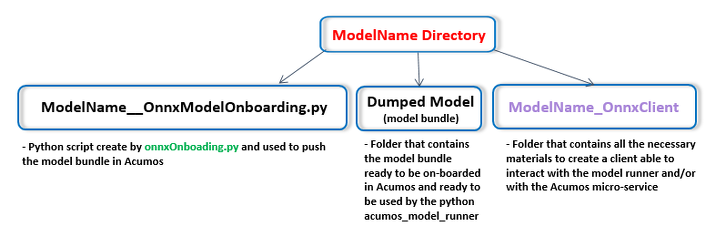
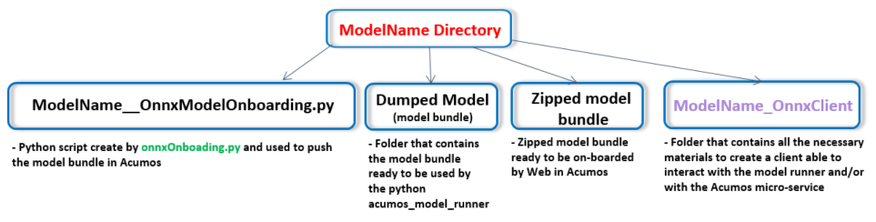
modifying documentation

diff --git a/acumos-package/onnx4acumos/_version.py b/acumos-package/onnx4acumos/_version.py
@@ -16,4 +16,4 @@
 # See the License for the specific language governing permissions and
 # limitations under the License.
 # ===============LICENSE_END=========================================================
-__version__ = '0.0.6'
+__version__ = '0.0.7'

diff --git a/docs/tutorial/index.rst b/docs/tutorial/index.rst
@@ -20,14 +20,14 @@
 onnx4acumos Tutorial
 ====================
 
-This tutorial provides a brief overview for onnx  models on-boarding on Acumos platform.
+This tutorial explains how to on-board an onnx model in an Acumos platform with microservice creation.
 It's meant to be followed linearly, and some code snippets depend on earlier imports and objects.
 Full onnx python client examples are available in the
 **``/acumos-onnx-client/acumos-package/onnx4acumos/FilledClientSkeletonsExemples/``**
 directory of the `Acumos onnx client repository
 <https://gerrit.acumos.org/r/gitweb?p=acumos-onnx-client.git;a=tree>`__.
 
-We assume that you have already installed **acumos onnx client** (onnx4acumos) python package.
+We assume that you have already installed ``onnx4acumos`` package.
 
 In this tutorial, we use `ONNX GoogLeNet <https://github.com/onnx/models/tree/master/vision/classification/inception_and_googlenet/googlenet>`__
 (source Caffe BVLC GoogLeNet ==> Caffe2 GoogLeNet ==> ONNX GoogLeNet) as example.
@@ -42,52 +42,62 @@ In this tutorial, we use `ONNX GoogLeNet <https://github.com/onnx/models/tree/ma
 Introduction
 ============
 
-Based on the acumos python client, we built onnx4acumos client able to create the onnx model
-bundle with all the required files needed by Acumos platform.
+Based on the ``acumos`` python client, we built ``onnx4acumos`` client able to create the onnx model bundle with all the
+required files needed by Acumos platform.
+
+When you used ``onnx4acumos``, you can choose to on-board your Onnx model in Acumos with or whithout micro-service creation
+(CLI on-boarding). Or you can choose to save your Acumos model bundle locally for later manual on-boarding (Web-onboarding).
+It that case ``onnx4acumos`` will create a ModelName Directory in which you will find the Acumos model bundle and all the
+necessary files to test the Acumos onnx model runner locally.
 
 On-boarding Onnx Model on Acumos Platform
 =========================================
 
-onnx4acumos is a python program that allows you to on-board an onnx model on an Acumos platform and to transform
-your model as a microservice.
+bvlcGoogleNet_model on-boarded in Acumos platform with micro-service activation :
 
-    bvlcGoogleNet_model locally dumped with input model file example : 
+.. code:: bash
 
-        .. code:: bash
+     onnx4acumos  OnnxModels/bvlcGoogleNet_model.onnx -push -ms
 
-            onnx4acumos  OnnxModels/bvlcGoogleNet_model.onnx -f input/cat.jpg
+In this command line the push parameter is used to on-board the Onnx model directly in Acumos (CLI on-boarding) and the -ms parameter
+is used to launch the micro-service creation in Acumos right after the on-boarding.
 
-    bvlcGoogleNet_model on-boarded model with micro-service activation example :
+To use the push parameter you must add your Acumos on-boarding url in the acumos_onnx_onboarding.py file. This on-boarding url can
+be found in your Acumos instance in the on-boarding panel.
 
-        .. code:: bash
+bvlcGoogleNet_model locally dumped with input model file :
 
-            onnx4acumos  OnnxModels/bvlcGoogleNet_model.onnx -push -ms
+.. code:: bash
 
-This script takes the onnx model as input as well as optional parameters (-f data from the input file for the model
-input file or -push to download the model on Acumos platform and -ms for the activation of the micro-service).
-The default parameter (-dump) allows the bundle to be saved locally. In this case, the "ModelName" directory is
-created and contain all the files needed to test the onnx model locally as you can see below.
+     onnx4acumos  OnnxModels/bvlcGoogleNet_model.onnx -f input/cat.jpg
 
-You can find "ModelName"  directory contents description below :
+Thanks to the command line above a "ModelName" directory is created and contain all the files needed to test the onnx model locally, 
+the -f parameter is used to add an input data file in the ModelName_OnnxClient folder.
 
-    .. image:: https://gerrit.acumos.org/r/gitweb?p=acumos-onnx-client.git;a=blob_plain;f=docs/images/Capture2.png
+An Acumos model bundle is also created locally and ready to be on-boarded in Acumos manually (Web onboarding). The default parameter
+(-dump) allows the bundle to be saved locally.
+
+You can find "ModelName" directory contents description below :
+
+.. image:: https://gerrit.acumos.org/r/gitweb?p=acumos-onnx-client.git;a=blob_plain;f=docs/images/Capture2.png
 
 In this directory, you cand find :
         - ModelName_OnnxModelOnboarding.py Python file,
-        - Dumped Model directory,
-        - ModelName_OnnxClient directory
+        - Dumped Model directory(model bundle),
+        - Zipped model bundle, 
+        - ModelName_OnnxClient directory.
 
 All are described in the picture above.
 
 In our bvlcGoogleNet_model example, the local server part can be started quite simply as follows:
 
-    .. code:: bash
+.. code:: bash
 
-         acumos_model_runner bvlcGoogleNet_Model/dumpedModel/bvlcGoogleNet_Model/
+    acumos_model_runner bvlcGoogleNet_Model/dumpedModel/bvlcGoogleNet_Model/
 
 You can find "ModelName_OnnxClient"  directory contents description below :
 
-    .. image:: https://gerrit.acumos.org/r/gitweb?p=acumos-onnx-client.git;a=blob_plain;f=docs/images/Capture3.png
+.. image:: https://gerrit.acumos.org/r/gitweb?p=acumos-onnx-client.git;a=blob_plain;f=docs/images/Capture3.png
 
 In this directory, you cand find :
         - Input/Input.data file (the input data file provided as onnx4acumos parameter),
@@ -101,22 +111,22 @@ Filling skeleton client file
 
 You can find the python client skeleton file filling desciptions below :
 
-    .. image:: https://gerrit.acumos.org/r/gitweb?p=acumos-onnx-client.git;a=blob_plain;f=docs/images/Capture4.png
+.. image:: https://gerrit.acumos.org/r/gitweb?p=acumos-onnx-client.git;a=blob_plain;f=docs/images/Capture4.png
 
 Here is the python client skeleton file that must be completed in order to communicate with server:
 
-    .. image:: https://gerrit.acumos.org/r/gitweb?p=acumos-onnx-client.git;a=blob_plain;f=docs/images/Capture5.png
+.. image:: https://gerrit.acumos.org/r/gitweb?p=acumos-onnx-client.git;a=blob_plain;f=docs/images/Capture5.png
 
 The "Onnx model protobuf import" is automatically imported (namedModel_Model_pb2.py) thanks to the first ligne of the
 skeleton "import bvlcGoogleNet_Model_pb2 as pb"
 
-All "steps" in order to fill the skeleton of our ONNX GoogLeNet as example are discribed below. You must filled the part
+All "steps" in order to fill the skeleton of our ONNX GoogLeNet example are discribed below. You must filled the part
 between two lines of "***********"
 
 First import your own needed libraries:
 =======================================
 
-    .. code:: python
+.. code:: python
 
         # Import your own needed library below
         "**************************************"
@@ -129,7 +139,7 @@ First import your own needed libraries:
 Second, define your own needed methods:
 =======================================
 
-    .. code:: python
+.. code:: python
 
         # Define your own needed method below
         "**************************************"
@@ -162,7 +172,7 @@ Second, define your own needed methods:
 Third, define Preprocessing method:
 ===================================
 
-    .. code:: python
+.. code:: python
 
         # Preprocessing method define
         def preprocessing(preProcessingInputFileName: str):
@@ -185,7 +195,7 @@ Third, define Preprocessing method:
 Fourth, define Postprocessing method:
 =====================================
 
-    .. code:: python
+.. code:: python
 
          # Postprocessing method define
         def postprocessing(postProcessingInput, outputFileName: str)-> bool:
@@ -212,7 +222,7 @@ Fourth, define Postprocessing method:
 And finally, redefine the REST URL if necessary (by default, localhost on port 3330):
 =====================================================================================
 
-    .. code:: python
+.. code:: python
 
         restURL = "http://localhost:3330/model/methods/run_bvlcGoogleNet_Model_OnnxModel"
 
@@ -226,9 +236,9 @@ correspond to  **'off-road motorbike, mountain bike, all-terrain bike, off-roade
 Command lines
 =============
 
-  You can find all command lines for our bvlcGoogleNet_model example below :
+You can find all command lines for our bvlcGoogleNet_model example below :
 
-    .. image:: https://gerrit.acumos.org/r/gitweb?p=acumos-onnx-client.git;a=blob_plain;f=docs/images/Commandes.png
+.. image:: https://gerrit.acumos.org/r/gitweb?p=acumos-onnx-client.git;a=blob_plain;f=docs/images/Commandes.png
 
 .. code:: bash
 
@@ -242,7 +252,7 @@ Command lines
 bvlcGoogleNet_Model example
 ===========================
 
-    .. image:: https://gerrit.acumos.org/r/gitweb?p=acumos-onnx-client.git;a=blob_plain;f=docs/images/bvlc.png
+.. image:: https://gerrit.acumos.org/r/gitweb?p=acumos-onnx-client.git;a=blob_plain;f=docs/images/bvlc.png
 
 In our example above :
 
@@ -262,7 +272,7 @@ Below are some additional examples.
 super_resolution_zoo_Model example
 ==================================
 
-    .. image:: https://gerrit.acumos.org/r/gitweb?p=acumos-onnx-client.git;a=blob_plain;f=docs/images/superResoZoo.png
+.. image:: https://gerrit.acumos.org/r/gitweb?p=acumos-onnx-client.git;a=blob_plain;f=docs/images/superResoZoo.png
 
 .. code:: bash
 
@@ -271,7 +281,7 @@ super_resolution_zoo_Model example
 Emotion Ferplus Model example
 =============================
 
-    .. image:: https://gerrit.acumos.org/r/gitweb?p=acumos-onnx-client.git;a=blob_plain;f=docs/images/emotionFerPlus.png
+.. image:: https://gerrit.acumos.org/r/gitweb?p=acumos-onnx-client.git;a=blob_plain;f=docs/images/emotionFerPlus.png
 
 .. code:: bash
 
@@ -282,9 +292,3 @@ Emotion Ferplus Model example
 
 That's all  :-)
 ===============
-
-
-
-
-
-

diff --git a/docs/user-guide.rst b/docs/user-guide.rst
@@ -23,7 +23,7 @@ onnx4acumos
 |Build Status|
 
 ``onnx4acumos`` is a client library that allows modelers to push their onnx models
-on an Acumos platform <https://www.acumos.org/>`__. For more informations on Acumos see :
+on an Acumos platform. For more informations on Acumos see :
 `Acumos AI Linux Fondation project  <https://www.acumos.org/>`__ ,
 his  `Acumos AI Wiki <https://wiki.acumos.org/>`_
 and his `Documentation <https://docs.acumos.org/en/latest/>`_.
@@ -31,8 +31,8 @@ and his `Documentation <https://docs.acumos.org/en/latest/>`_.
 Installation
 ============
 
-The main requirement to install onnx4acumos is to install ``acumos`` python package and his dependancies prior.
-Please refer to `acumos python package <https://www.https://pypi.org/project/acumos/>`__
+The main requirement to install ``onnx4acumos`` is to install ``acumos`` python package and his dependancies prior.
+Please refer to `acumos python package <https://www.pypi.org/project/acumos/>`__
 
 Once the ``acumos`` package is installed, you can install ``onnx4acumos`` with pip:
 

diff --git a/docs/release-notes.rst b/docs/release-notes.rst
@@ -20,6 +20,37 @@
 Acumos ONNX Client Release Notes
 ================================
 
+v0.0.7 5 January 2021
+=====================
+
+* Modifying documentation
+
+v0.0.6, 5 January 2021
+======================
+
+* Adding zip file in onnx model name directory
+* re-arrange index and user-guide rst file
+
+v0.0.5, 18 December 2020
+========================
+
+* Image update size
+
+v0.0.4, 18 December 2020
+========================
+
+* Image documentation fix
+
+v0.0.3, 18 December 2020
+========================
+
+* Documentation update fix
+
+v0.0.2, 17 December 2020
+========================
+
+* add import, fix license header and other defects
+
 v0.0.1, 15 December 2020
 ========================
 
